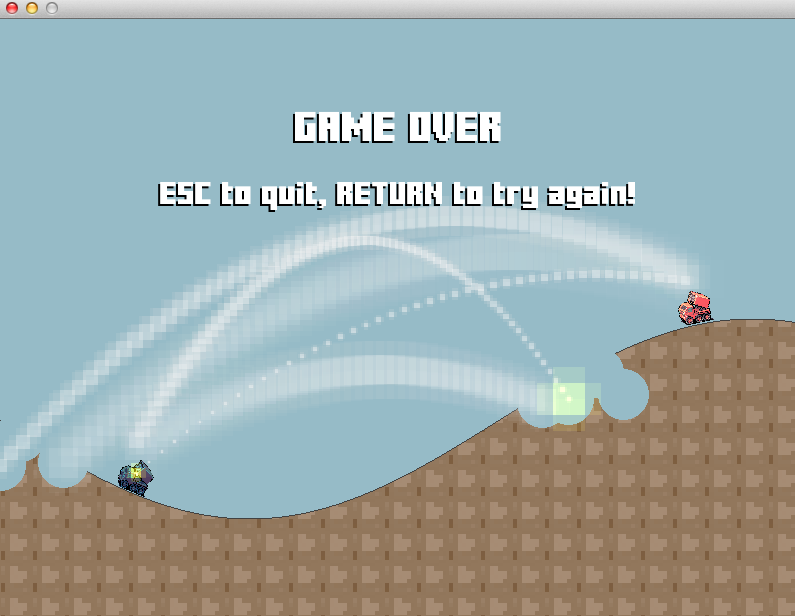
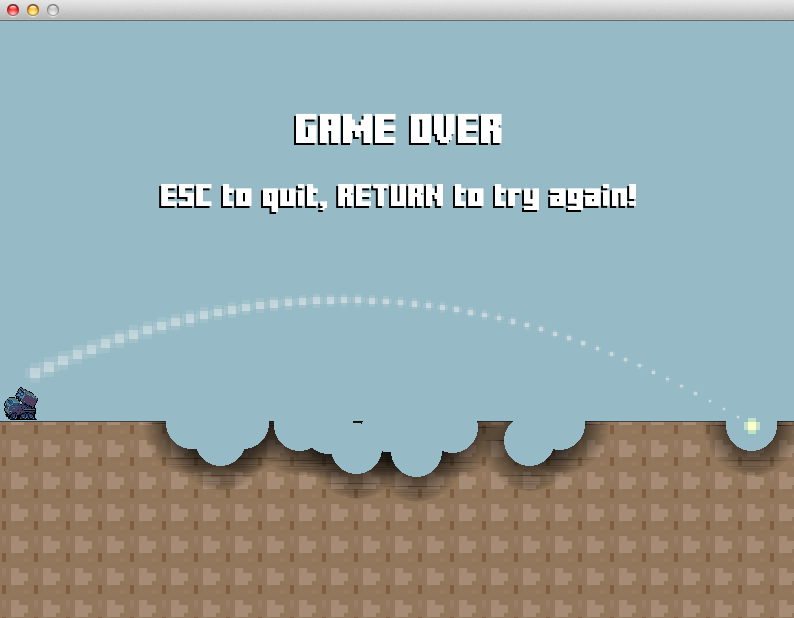
feature: terrain scaring.

diff --git a/lib/states/play.rb b/lib/states/play.rb
@@ -37,10 +37,7 @@ class Play <  Chingu::GameState
   end
 
   def update
-    # remove off screen objects
-    game_objects.destroy_if { |game_object| game_object.y > $window.height}
-    push_game_state(GameOver) if Tank.size < 2
-
+    super
 
     # gravity
     Tank.all.each do |tank|
@@ -57,7 +54,7 @@ class Play <  Chingu::GameState
     # terrain hits
     Shot.all.each do |shot|
       if Terrain.instance.collide_point?(shot.x, shot.y)
-        radius = 50
+        radius = 25
         Terrain.instance.remove_circle(shot.x, shot.y, radius)
         Explosion.create(:x => shot.x, :y => shot.y)
         Tank.all.each do |tank|
@@ -70,7 +67,8 @@ class Play <  Chingu::GameState
       end
     end
 
-    super
+    # remove off screen objects
+    game_objects.destroy_if { |game_object| game_object.y > $window.height}
   end
 
   def draw

diff --git a/lib/terrain.rb b/lib/terrain.rb
@@ -65,6 +65,19 @@ class Terrain < Delegator
 
   def remove_circle(center_x, center_y, radius=1)
     image.paint do
+      # circle(center_x, center_y, radius * 1.3, :fill => true, :mode => :darken, :color => Gosu::Color.new(255,55,55,55))
+      circle(center_x, center_y, radius * 2, :color => Gosu::Color::BLACK, :fill => true,
+        :color_control => proc { |color_dest, x, y|
+          ratio = Gosu.distance(center_x, center_y, x, y).to_f / (radius * 2)
+          if color_dest && color_dest[3] != 0
+            color_dest[0] *= ratio
+            color_dest[1] *= ratio
+            color_dest[2] *= ratio
+            color_dest
+          else
+            Color::EMPTY
+          end
+        })
       circle(center_x, center_y, radius, :color => Color::EMPTY, :fill => true)
     end
   end
